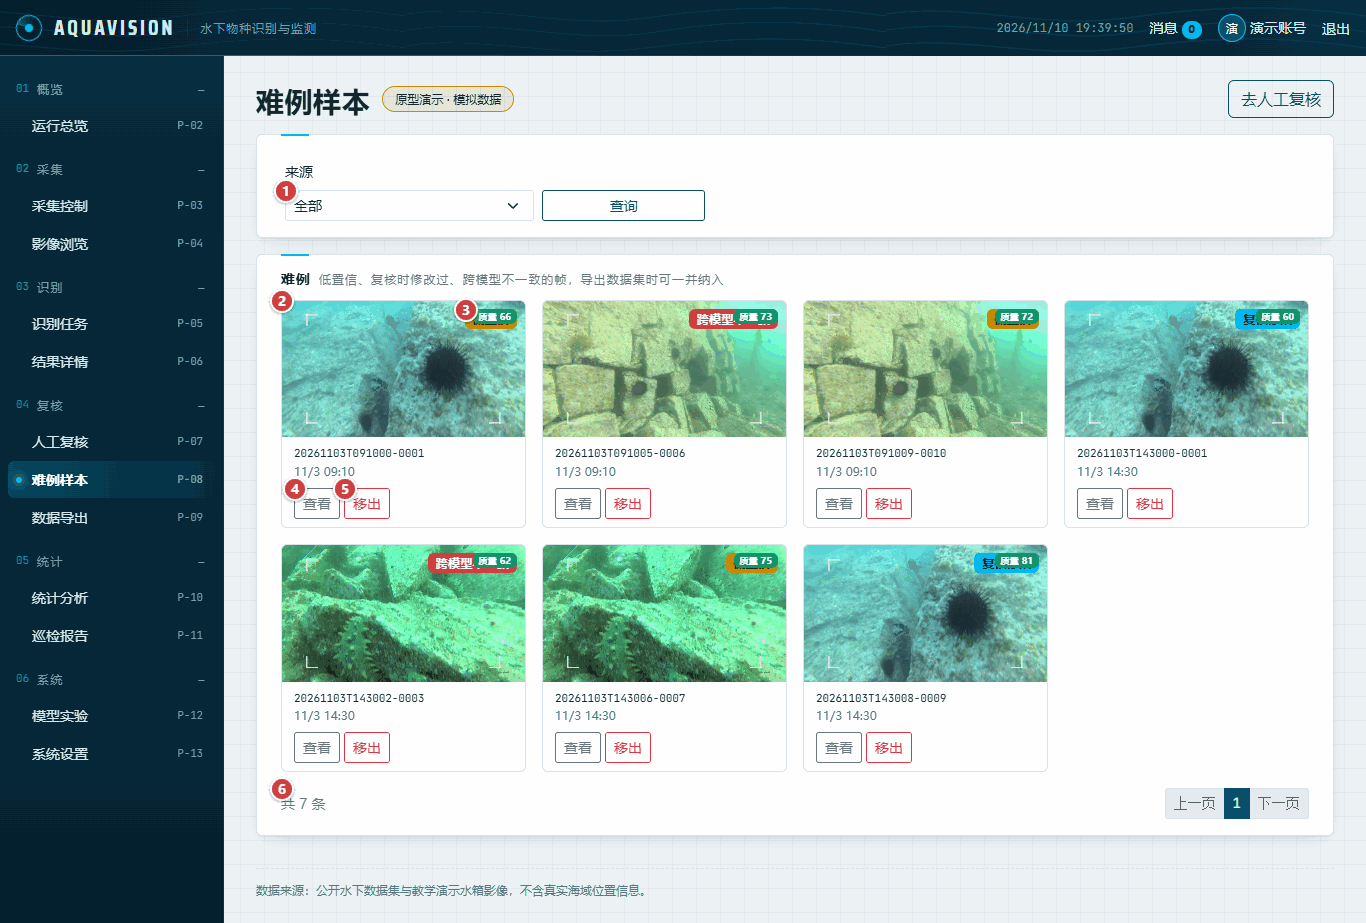
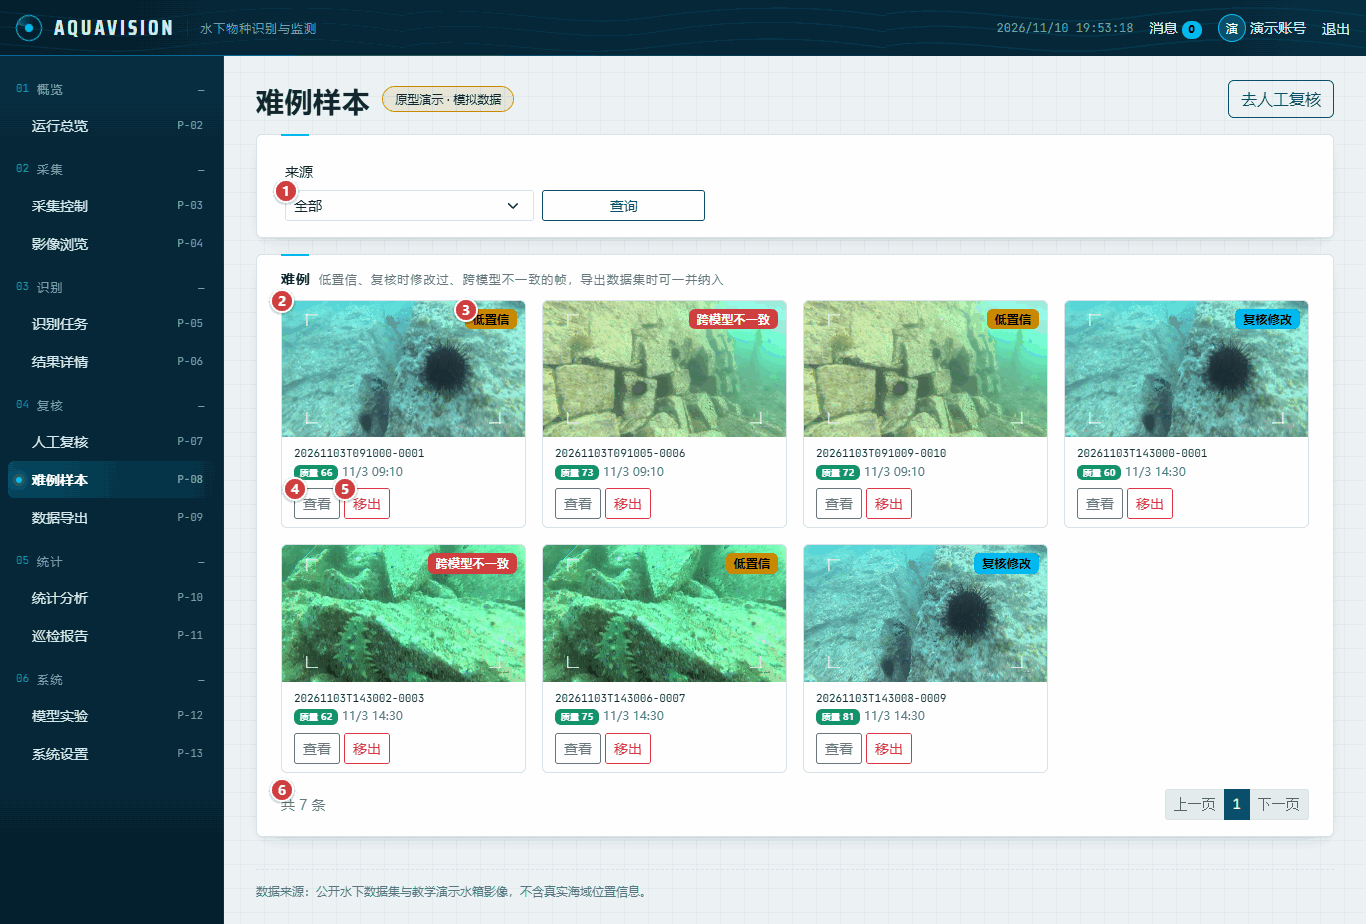
fix(hard-samples): keep the quality badge in its line instead of on the source badge (#129)

diff --git a/web/static/css/app.css b/web/static/css/app.css
@@ -644,7 +644,8 @@ body {
   left: var(--av-space-2);
 }
 
-.av-thumb .badge {
+/* Only a badge placed directly on the card goes to the corner; one in the meta line stays in its line. */
+.av-thumb > .badge {
   position: absolute;
   top: var(--av-space-2);
   right: var(--av-space-2);

diff --git a/PROGRESS.md b/PROGRESS.md
@@ -1,5 +1,9 @@
 ## 2026-11-10
 
+- **Hard samples: the quality badge no longer sits on top of the source badge.** The thumbnail rule put
+  every badge inside a card in the top-right corner, so the quality badge in the meta line landed on the
+  source badge. The rule now applies only to a badge placed directly on the card; the image browser, whose
+  quality badge is meant for the corner, is unchanged. Figure 8 of the traceability matrix is recaptured.
 - **`P2-18` done: one page, one name.** The menu, every page title and heading, and the traceability matrix
   now use the SRS §5.2 names, and `tests/test_page_names.py` compares the four lists page by page (shown
   failing on five planted mismatches, then passing). `frames.html` and `frame.html` became
